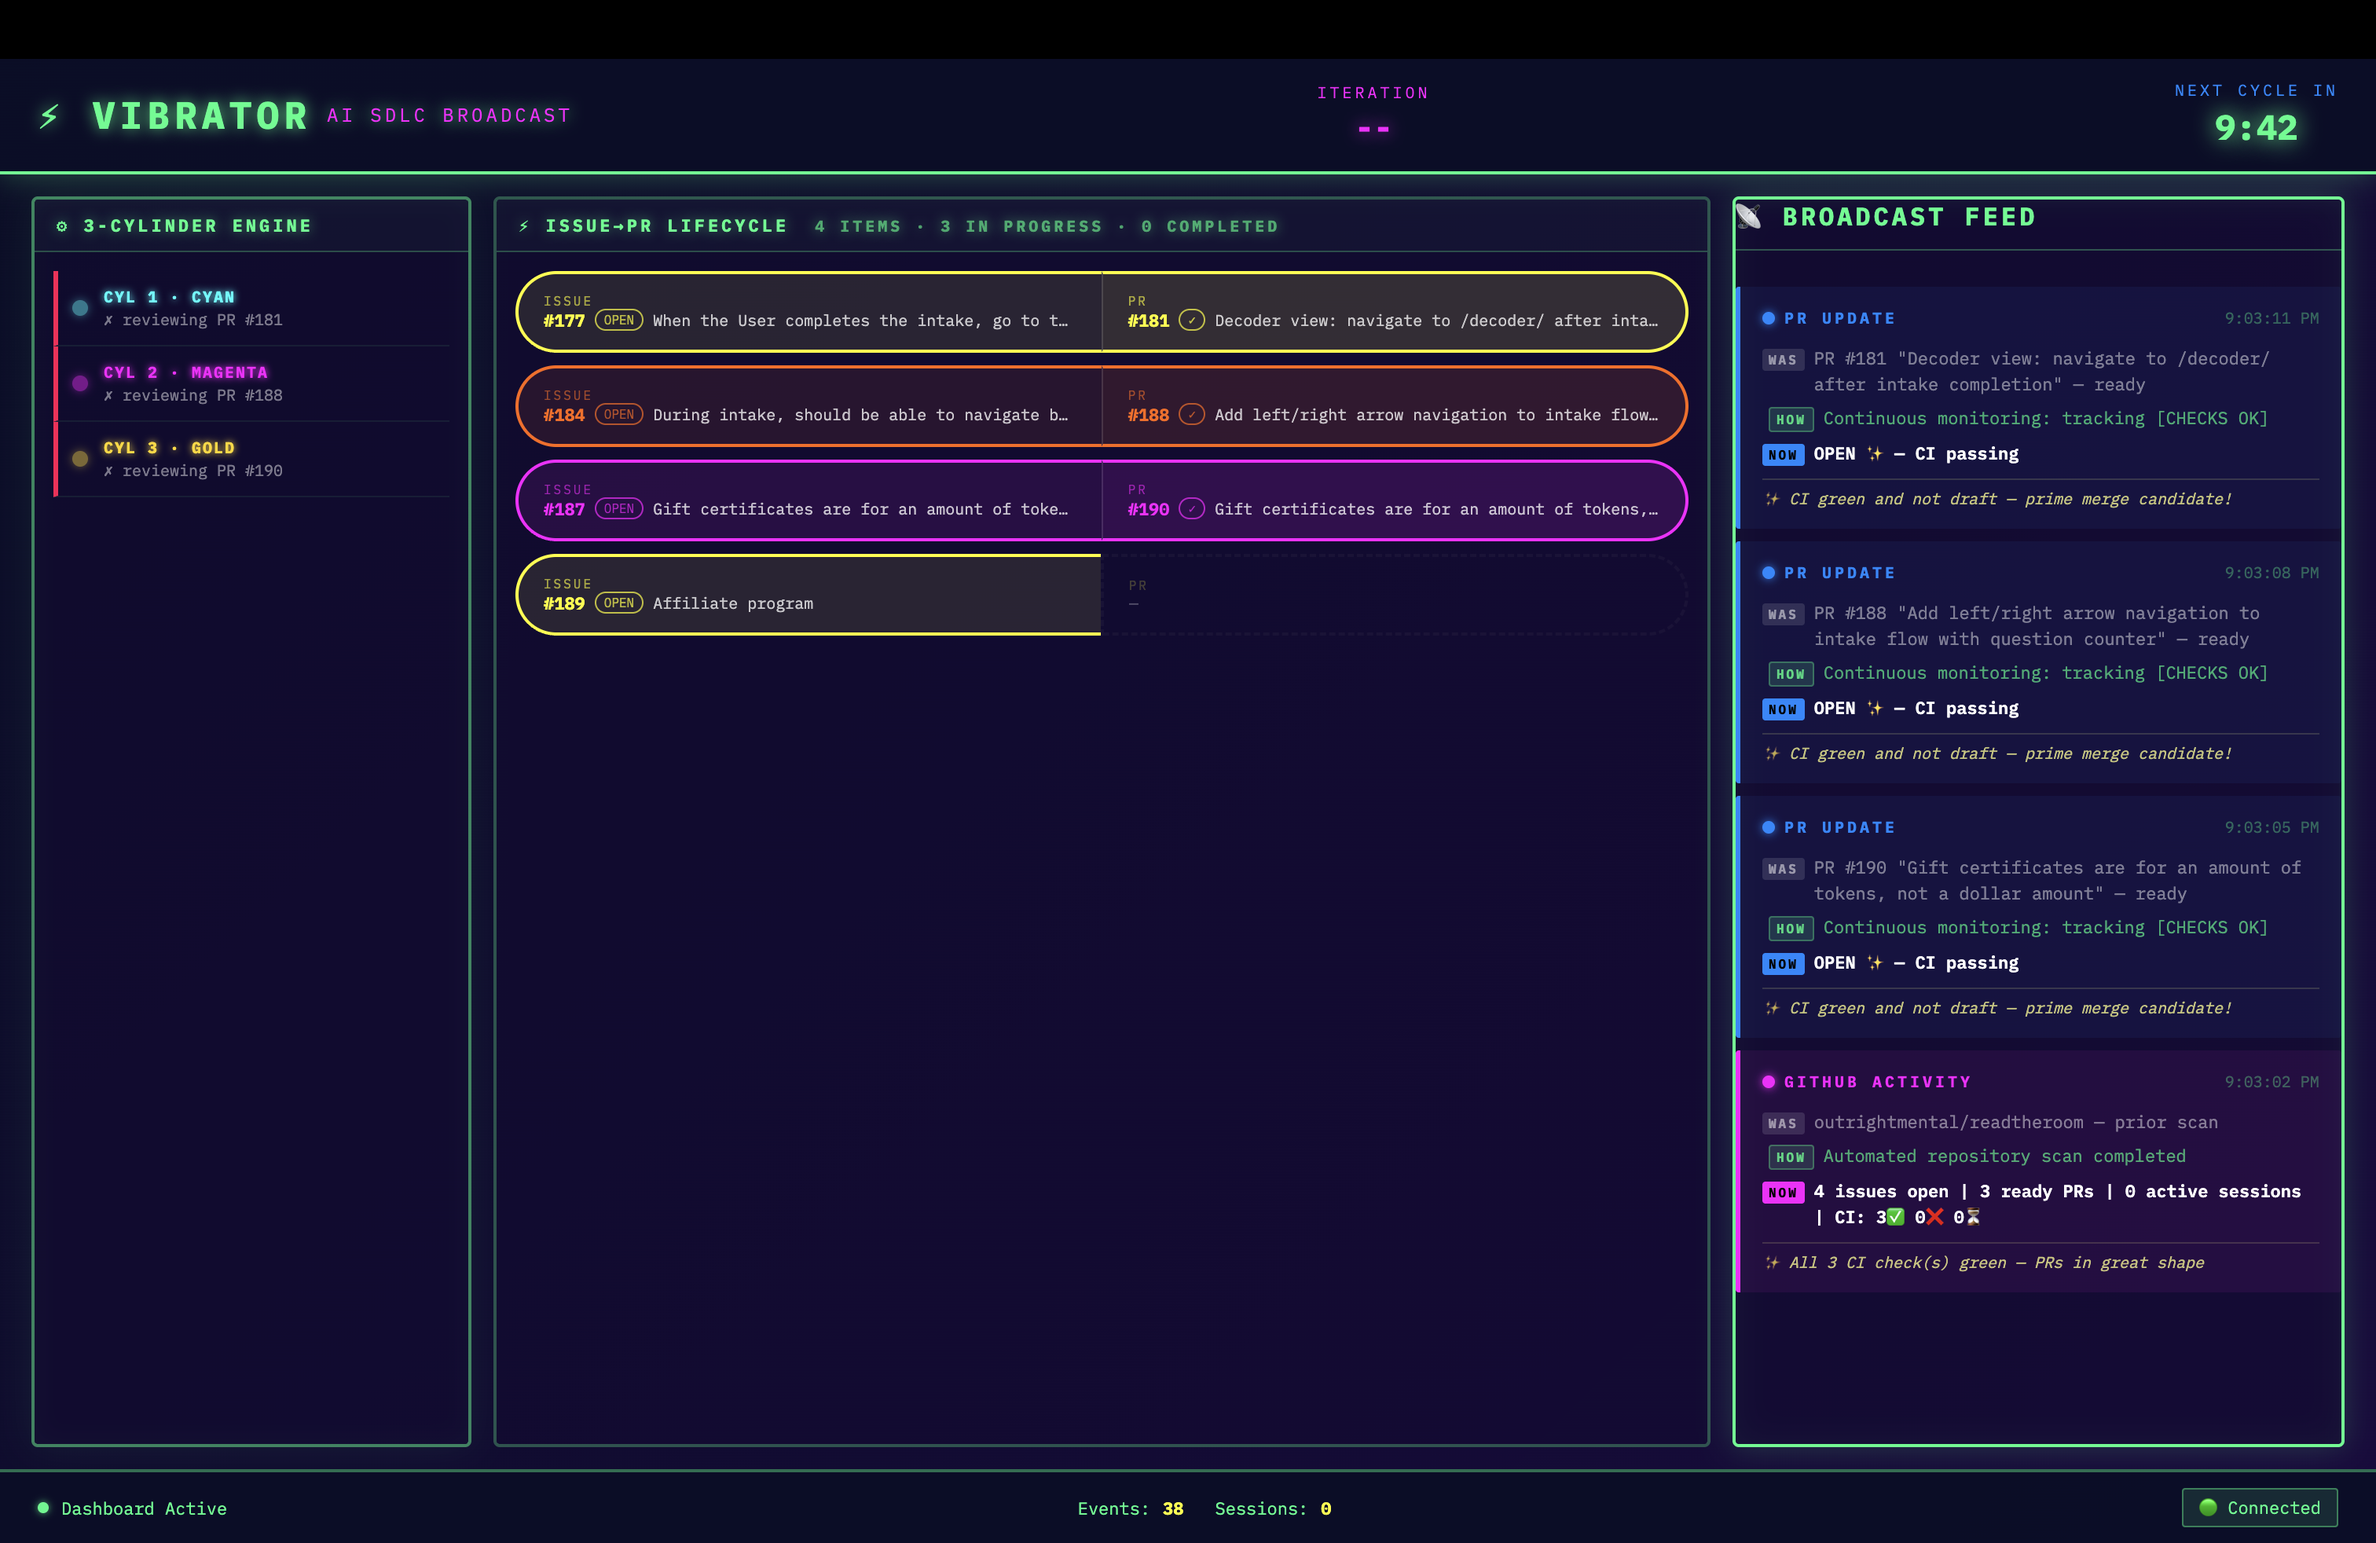
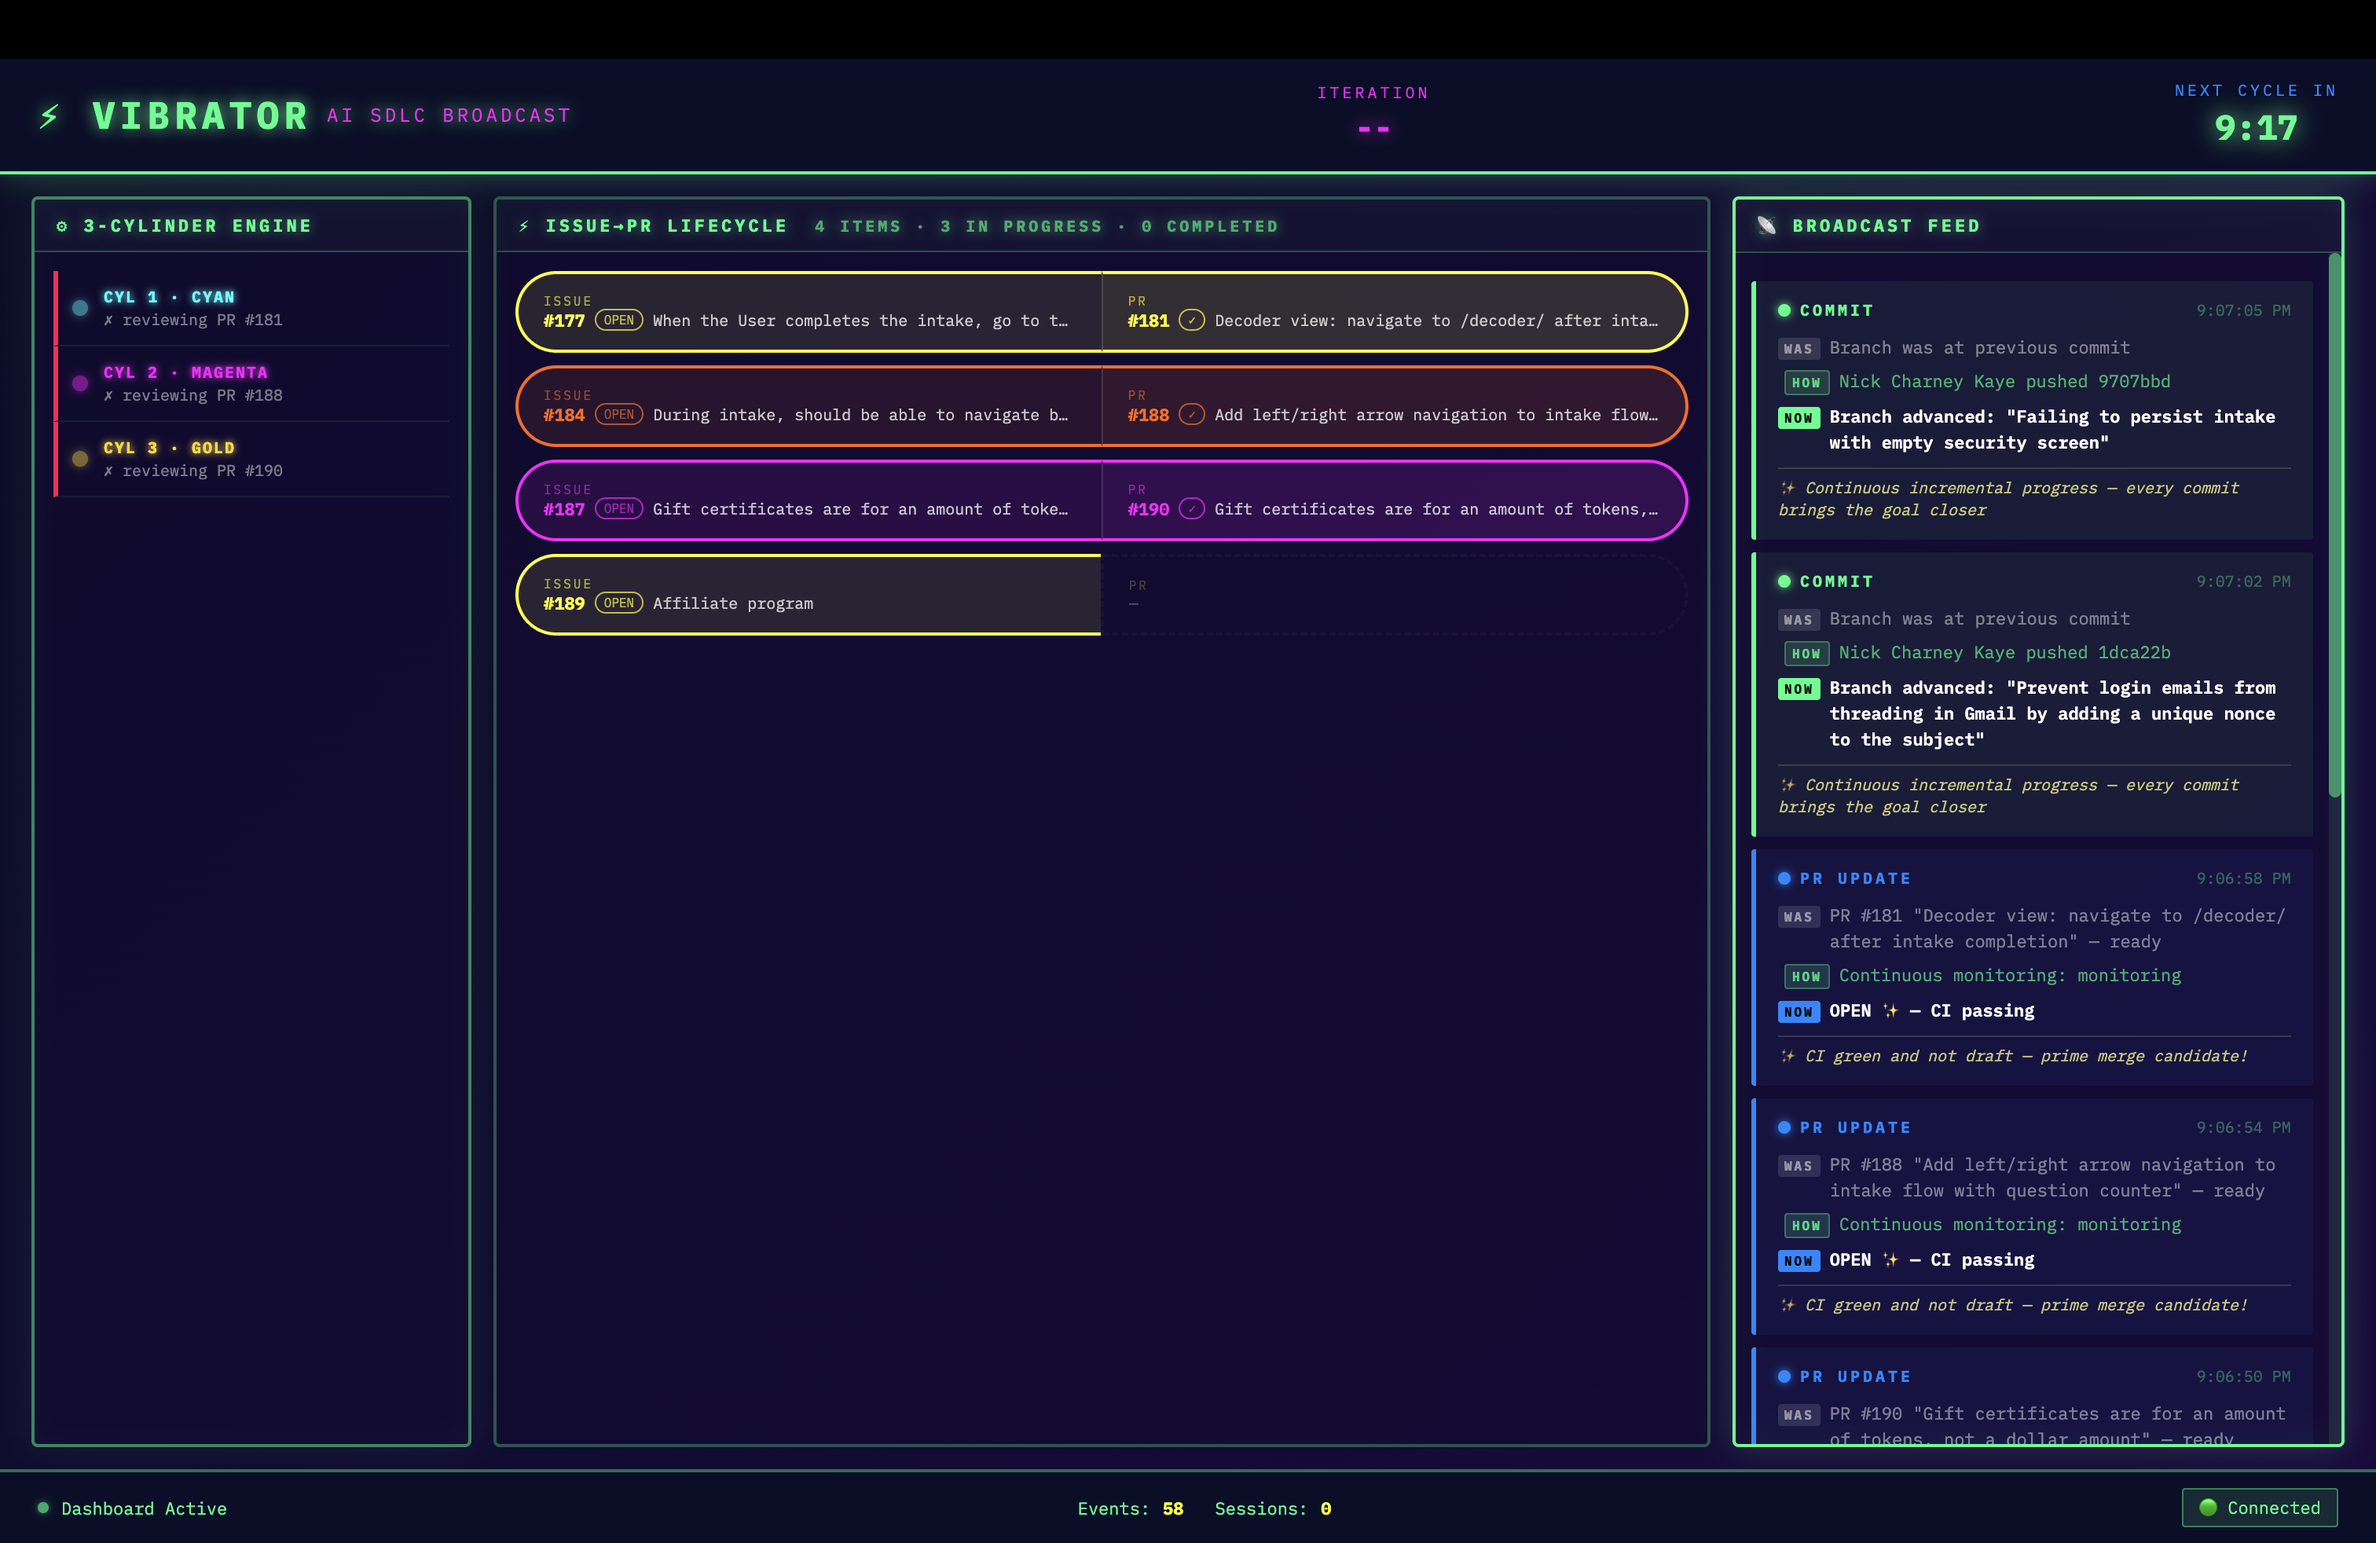
New screenshot

diff --git a/src/dashboard-server.ts b/src/dashboard-server.ts
@@ -320,25 +320,6 @@ body {
   padding: 12px;
 }
 
-.panel-c .panel-body {
-  padding: 0;
-  font-size: 12px;
-  line-height: 1.6;
-}
-
-.panel-c .panel-header {
-  padding: 0 0 10px 0;
-  margin-bottom: 15px;
-  font-size: 16px;
-  font-weight: 700;
-  text-transform: uppercase;
-  letter-spacing: 2px;
-  color: #00ff88;
-  border-bottom: 1px solid rgba(0, 255, 136, 0.3);
-  background: transparent;
-  text-shadow: none;
-}
-
 .panel-body::-webkit-scrollbar {
   width: 8px;
 }
